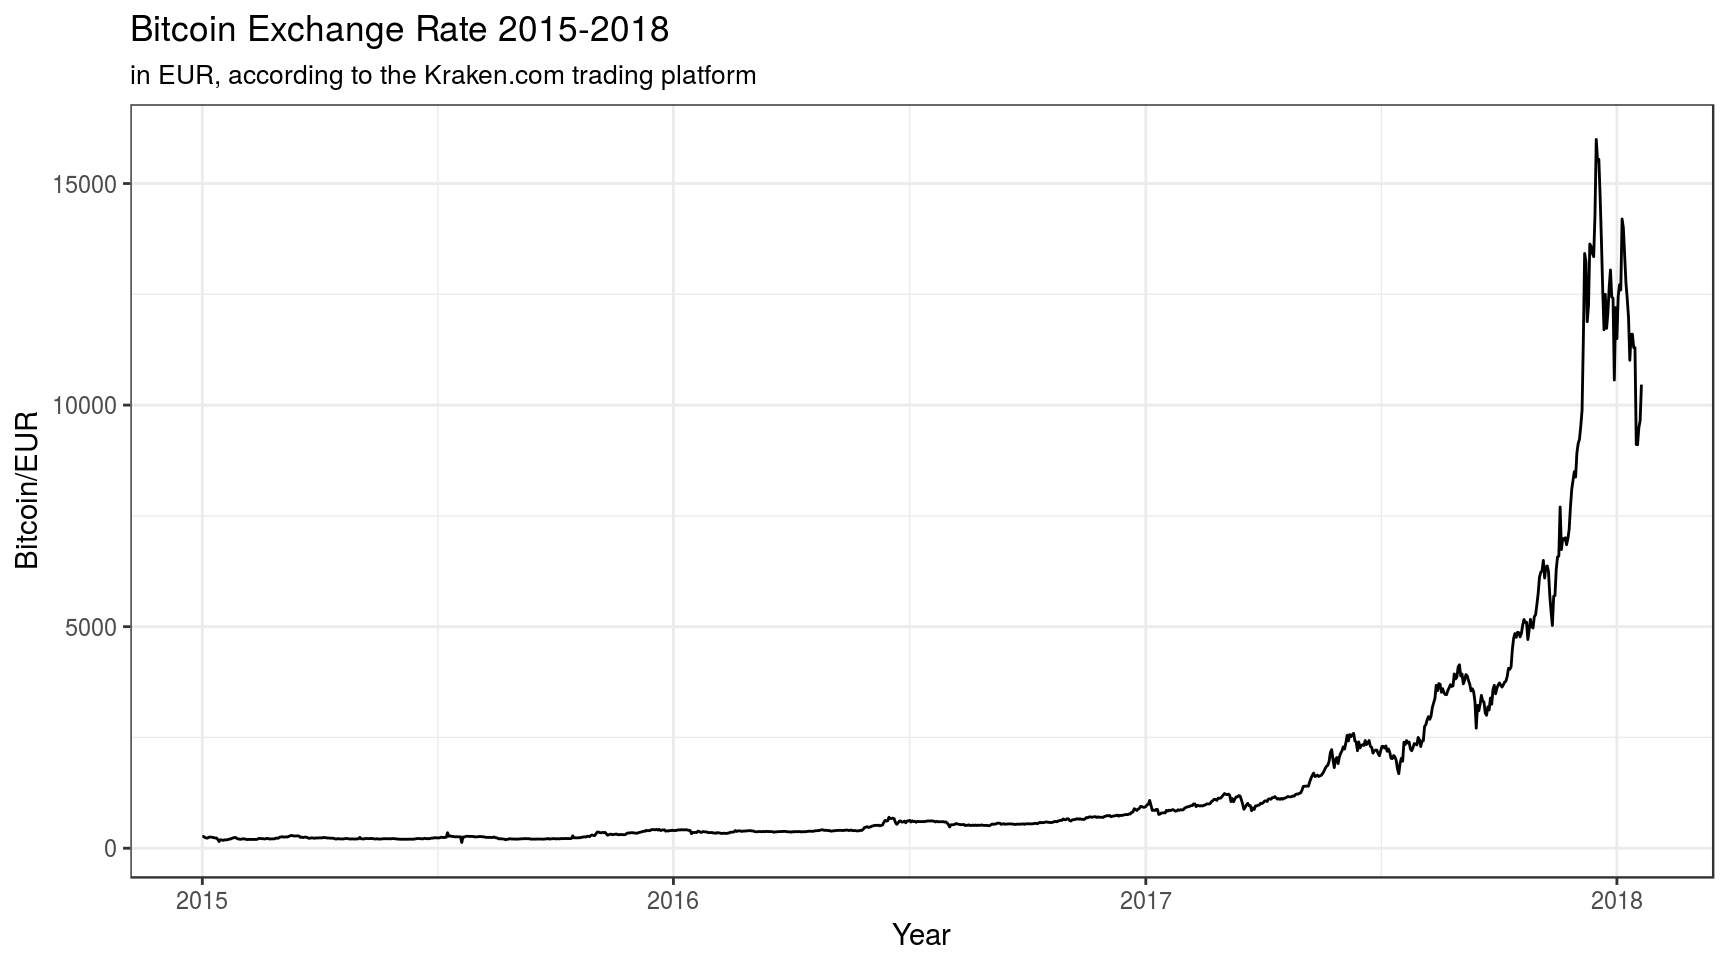
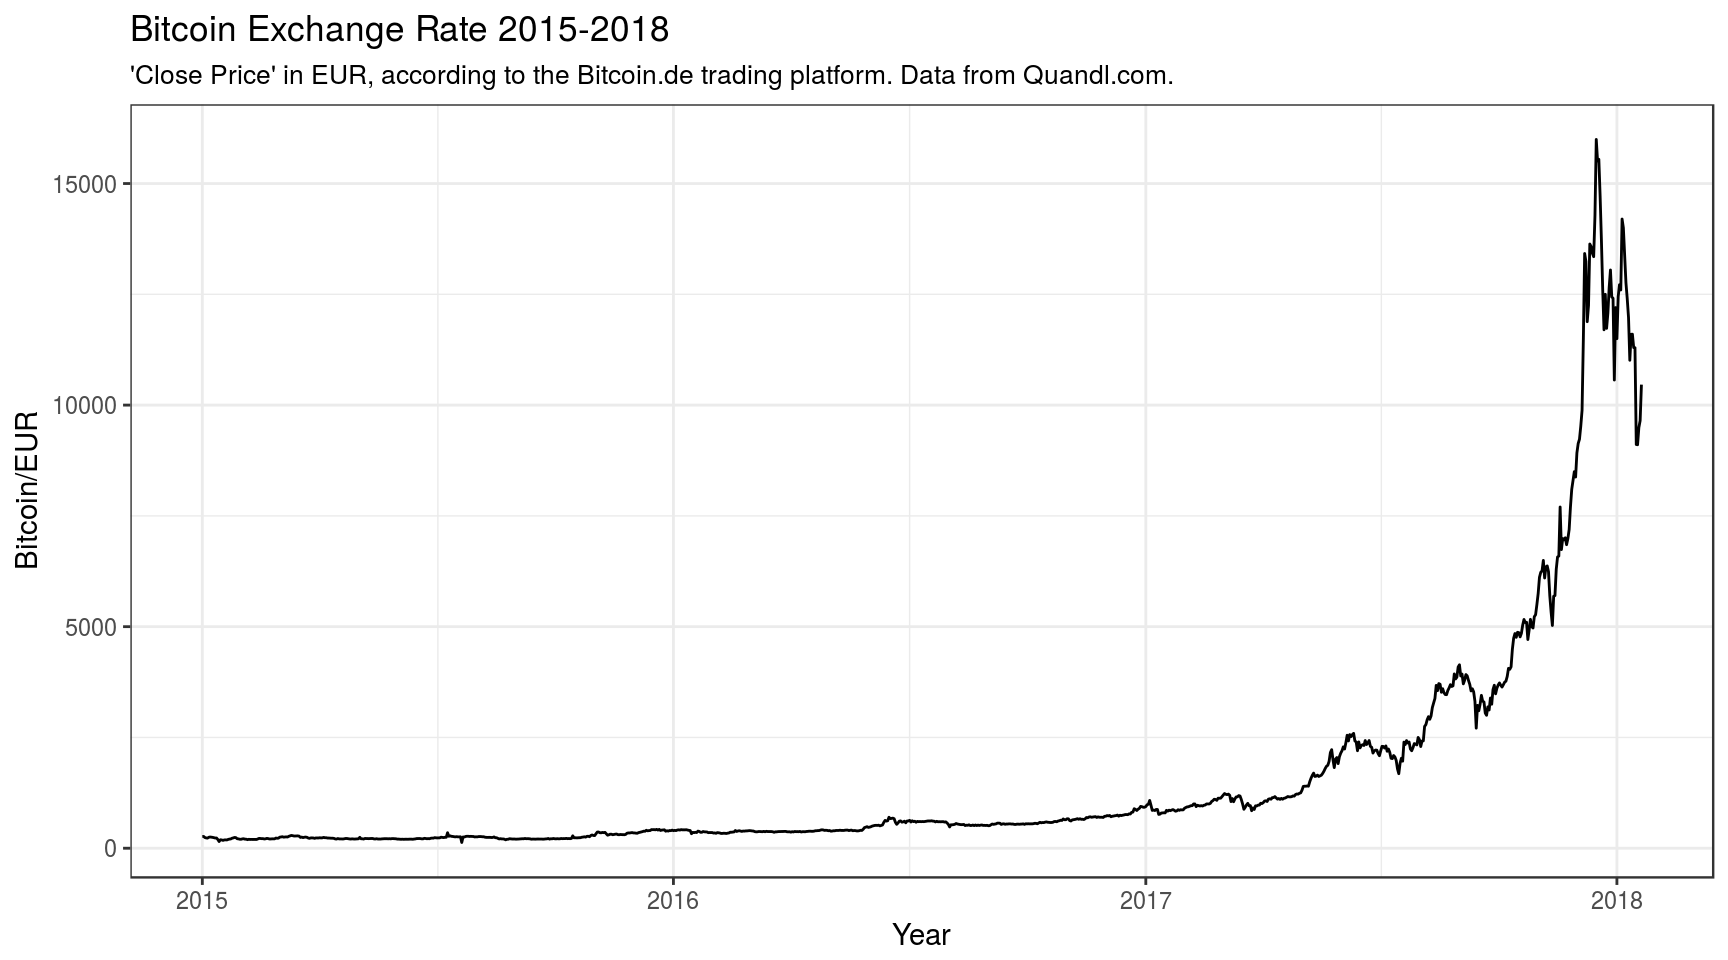
add BTC volatility plot

Changed region(s): [[0.0625, 0.0625, 0.6875, 0.0938]]

diff --git a/public/post/2018/01/bitcoin-interest/index.html b/public/post/2018/01/bitcoin-interest/index.html
@@ -125,7 +125,7 @@ ga('send', 'pageview');
 
   <article class="article">
     
-    <span class="article-duration">3 min read</span>
+    <span class="article-duration">4 min read</span>
     
 
     <h1 class="article-title">Global interest in Bitcoin over Time</h1>
@@ -139,7 +139,7 @@ ga('send', 'pageview');
 Bitcoin. Visualizing (1) Wikipedia Pageviews, (2) Google Searches and (3) Exchange Rates from 2015 to early 2018. 
 Simple timeseries plots (created from Web-API data) show that these three are strongly correlated.
 </div>
-<p>In this post I’ll analyse global interest in Bitcoin and Ethereum over time, according to accesses to Wikipedia articles and as Google Searches. At this time, no API keys and authentication are necessary.</p>
+<p>In this post I’ll analyse global interest in Bitcoin and Ethereum over time, according to accesses to Wikipedia articles and as Google Searches.</p>
 <p>The end of the year 2017 saw the “Bitcoin Bubble”, a period of one month where 1 Bitcoin was traded for up to $20000 on most exchanges. I am not invested in Bitcoin, and never was substantially, but cryptocurrencies and the blockchain technology still interest me.</p>
 <div id="preprocessing" class="section level3">
 <h3>Preprocessing</h3>
@@ -148,6 +148,7 @@ Simple timeseries plots (created from Web-API data) show that these three are st
 <li>Define necessary R packages</li>
 <li>Fetching the data</li>
 </ul>
+<p>At this time, no user registration process is required to get to the data. No API keys and authentication steps are necessary to call the Web-APIs mentioned below.</p>
 <div id="load-r-packages" class="section level4">
 <h4>Load R packages</h4>
 <pre class="r"><code>library(pageviews) # access Wikipedia
@@ -159,8 +160,8 @@ theme_set(theme_bw()) # ggplot default</code></pre>
 </div>
 <div id="define-a-wrapper-function-to-access-a-wikipedia-api" class="section level4">
 <h4>Define a wrapper function to access a Wikipedia API</h4>
-<p>The function contains quite a few of hardwired parameters. The <a href="https://github.com/ironholds/pageviews"><code>pageviews</code></a> package fetches the data. The function could bemade a lot more flexible by adding more parameters but that is also not necessary for this blogpost.</p>
-<p>The search function only works for terms that for which an article in both wikipedias exists.</p>
+<p>The function contains quite a few of hardwired parameters. The <a href="https://github.com/ironholds/pageviews"><code>pageviews</code></a> package fetches the data. The function could be made a lot more flexible by adding more arguments, but that is not necessary for this blogpost.</p>
+<p>The search function only works for terms for which an article exists <em>with the same title</em> in both the German and the English Wikipedia.</p>
 <p>Luckily “Bitcoin” is such a term.</p>
 <pre class="r"><code># Get the pageviews for &quot;Search term&quot;
 # pageview data is available since 2015
@@ -203,14 +204,27 @@ wikipedia_de_vs_en &lt;- function(term = &quot;Bitcoin&quot;) {
       subtitle = &quot;Human Users only&quot;
     ) 
 }</code></pre>
-<p>Get some data for Bitcoin</p>
+</div>
+</div>
+<div id="data-visualization" class="section level3">
+<h3>Data Visualization</h3>
+<p>Get some data for the Wikipedia article on Bitcoin:</p>
 <p><img src="/post/2018-01-20-interest-in-bitcoin-over-time_files/figure-html/btc-1.png" width="864" /></p>
-<p>Get some data for Ethereum, another popular cryptocurrency (at this time).</p>
+<p>Get some data for the article on Ethereum, another popular cryptocurrency (at this time).</p>
 <p><img src="/post/2018-01-20-interest-in-bitcoin-over-time_files/figure-html/eth-1.png" width="864" /></p>
-<p>There is another, alternative data source: Google Trends API, here accessed with functions from the <a href="https://github.com/PMassicotte/gtrendsR">gtrendsR</a> package. The API provides aggregated and rescaled data on how many people have performed Google searches for this term.</p>
+<p>These plots show a lot of things.</p>
+<ul>
+<li>Unsurprisingly, the interest (measured in pageviews) in the English version of the Wikipedia articles is consistently higher than interest in the German version. About 5 times as high.</li>
+<li>Accesses to the Wikipedia articles peaked quite a few times even before the 2017 craze started. (I haven’t looked it up what these events were. Ransomware spreads, perhaps?).</li>
+<li>Interest in Ethereum seems to be disproportionally high in Germany: “English pageviews”&quot; were “only” 3 times as high as German pageviews (usually it’s 5 times as high).<br />
+</li>
+<li>Strong peaks in Ethereum-article pageviews often occured independently from Bitcoin-Article pageviews, for both language articles.</li>
+<li>(TBC)</li>
+</ul>
+<p>There is another, alternative data source: Google Trends API, here accessed with functions from the <a href="https://github.com/PMassicotte/gtrendsR">gtrendsR</a> package. The API provides aggregated and rescaled data on how many people have performed Google searches for any term.</p>
 <p>Show a plot for comparison:</p>
 <pre class="r"><code>bitcoin_trends$interest_over_time %&gt;%
-  filter(date &gt; as.Date(&quot;2015-01-01&quot;)) %&gt;%
+  filter(date &gt;= as.Date(&quot;2015-01-01&quot;)) %&gt;%
   ggplot(aes(date, hits)) +
   geom_line() +
   theme(legend.position = &quot;none&quot;) +
@@ -220,16 +234,23 @@ wikipedia_de_vs_en &lt;- function(term = &quot;Bitcoin&quot;) {
     subtitle = &quot;(Google internal counters)&quot;
   )</code></pre>
 <p><img src="/post/2018-01-20-interest-in-bitcoin-over-time_files/figure-html/gogl-1.png" width="864" /></p>
-</div>
+<p>In order to make the Google-Trends-API plot comparable to the other plots above, I have restricted the data to the interval from 2015 to 2018. Thus I have left out a small but notable spike in the gloabl interest in bitcoin that happended in 2014.</p>
 <div id="another-obligatory-comparison" class="section level4">
 <h4>Another obligatory comparison</h4>
-<p>Last but not least: the exchange rate for Bitcoin, here given in Euro.</p>
+<p>Last but not least: the exchange rate for Bitcoin, here given in Euro. Data are from <a href="https://www.bitcoin.de">Bitcoin.de</a>, aggregated by <a href="https://docs.quandl.com/docs/time-series">Quandl</a>.</p>
 <pre class="r"><code>btc &lt;- Quandl(code = &quot;BCHARTS/BTCDEEUR&quot;, type = &quot;xts&quot;)
 autoplot(btc$Close[&quot;2015-01-01/&quot;]) +
         ylab(&quot;Bitcoin/EUR&quot;) + xlab(&quot;Year&quot;) +
         ggtitle(&quot;Bitcoin Exchange Rate 2015-2018&quot;,
-                subtitle=&quot;in EUR, according to the Kraken.com trading platform&quot;)</code></pre>
+                subtitle=&quot;&#39;Close Price&#39; in EUR, according to the Bitcoin.de trading platform. Data from Quandl.com.&quot;)</code></pre>
 <p><img src="/post/2018-01-20-interest-in-bitcoin-over-time_files/figure-html/quandl-1.png" width="864" /></p>
+<p>What many people talk about is the ‘volatility’ of Bitcoin. Rarely have I seen someone visualizing this, so here is another plot showing the daily change in the price fo 1 bitcoin, in Euro:</p>
+<pre class="r"><code>autoplot(diff(btc$Close[&quot;2015-01-01/&quot;])) +
+        ylab(&quot;Daily Price Change, in EUR/day &quot;) + xlab(&quot;Year&quot;) +
+        ggtitle(&quot;Volatility of Bitcoin &#39;Close Price&#39; 2015-2018&quot;,
+                subtitle=&quot;in EUR, according to the Bitcoin.de trading platform. Data from Quandl.com.&quot;)</code></pre>
+<p><img src="/post/2018-01-20-interest-in-bitcoin-over-time_files/figure-html/btcdiff-1.png" width="864" /></p>
+<p>I’ve never seen any financial time series like that.</p>
 </div>
 </div>
 

diff --git a/content/post/2018-01-20-interest-in-bitcoin-over-time.html b/content/post/2018-01-20-interest-in-bitcoin-over-time.html
@@ -18,7 +18,7 @@ output:
 Bitcoin. Visualizing (1) Wikipedia Pageviews, (2) Google Searches and (3) Exchange Rates from 2015 to early 2018. 
 Simple timeseries plots (created from Web-API data) show that these three are strongly correlated.
 </div>
-<p>In this post I’ll analyse global interest in Bitcoin and Ethereum over time, according to accesses to Wikipedia articles and as Google Searches. At this time, no API keys and authentication are necessary.</p>
+<p>In this post I’ll analyse global interest in Bitcoin and Ethereum over time, according to accesses to Wikipedia articles and as Google Searches.</p>
 <p>The end of the year 2017 saw the “Bitcoin Bubble”, a period of one month where 1 Bitcoin was traded for up to $20000 on most exchanges. I am not invested in Bitcoin, and never was substantially, but cryptocurrencies and the blockchain technology still interest me.</p>
 <div id="preprocessing" class="section level3">
 <h3>Preprocessing</h3>
@@ -27,6 +27,7 @@ Simple timeseries plots (created from Web-API data) show that these three are st
 <li>Define necessary R packages</li>
 <li>Fetching the data</li>
 </ul>
+<p>At this time, no user registration process is required to get to the data. No API keys and authentication steps are necessary to call the Web-APIs mentioned below.</p>
 <div id="load-r-packages" class="section level4">
 <h4>Load R packages</h4>
 <pre class="r"><code>library(pageviews) # access Wikipedia
@@ -38,8 +39,8 @@ theme_set(theme_bw()) # ggplot default</code></pre>
 </div>
 <div id="define-a-wrapper-function-to-access-a-wikipedia-api" class="section level4">
 <h4>Define a wrapper function to access a Wikipedia API</h4>
-<p>The function contains quite a few of hardwired parameters. The <a href="https://github.com/ironholds/pageviews"><code>pageviews</code></a> package fetches the data. The function could bemade a lot more flexible by adding more parameters but that is also not necessary for this blogpost.</p>
-<p>The search function only works for terms that for which an article in both wikipedias exists.</p>
+<p>The function contains quite a few of hardwired parameters. The <a href="https://github.com/ironholds/pageviews"><code>pageviews</code></a> package fetches the data. The function could be made a lot more flexible by adding more arguments, but that is not necessary for this blogpost.</p>
+<p>The search function only works for terms for which an article exists <em>with the same title</em> in both the German and the English Wikipedia.</p>
 <p>Luckily “Bitcoin” is such a term.</p>
 <pre class="r"><code># Get the pageviews for &quot;Search term&quot;
 # pageview data is available since 2015
@@ -82,14 +83,27 @@ wikipedia_de_vs_en &lt;- function(term = &quot;Bitcoin&quot;) {
       subtitle = &quot;Human Users only&quot;
     ) 
 }</code></pre>
-<p>Get some data for Bitcoin</p>
+</div>
+</div>
+<div id="data-visualization" class="section level3">
+<h3>Data Visualization</h3>
+<p>Get some data for the Wikipedia article on Bitcoin:</p>
 <p><img src="/post/2018-01-20-interest-in-bitcoin-over-time_files/figure-html/btc-1.png" width="864" /></p>
-<p>Get some data for Ethereum, another popular cryptocurrency (at this time).</p>
+<p>Get some data for the article on Ethereum, another popular cryptocurrency (at this time).</p>
 <p><img src="/post/2018-01-20-interest-in-bitcoin-over-time_files/figure-html/eth-1.png" width="864" /></p>
-<p>There is another, alternative data source: Google Trends API, here accessed with functions from the <a href="https://github.com/PMassicotte/gtrendsR">gtrendsR</a> package. The API provides aggregated and rescaled data on how many people have performed Google searches for this term.</p>
+<p>These plots show a lot of things.</p>
+<ul>
+<li>Unsurprisingly, the interest (measured in pageviews) in the English version of the Wikipedia articles is consistently higher than interest in the German version. About 5 times as high.</li>
+<li>Accesses to the Wikipedia articles peaked quite a few times even before the 2017 craze started. (I haven’t looked it up what these events were. Ransomware spreads, perhaps?).</li>
+<li>Interest in Ethereum seems to be disproportionally high in Germany: “English pageviews”&quot; were “only” 3 times as high as German pageviews (usually it’s 5 times as high).<br />
+</li>
+<li>Strong peaks in Ethereum-article pageviews often occured independently from Bitcoin-Article pageviews, for both language articles.</li>
+<li>(TBC)</li>
+</ul>
+<p>There is another, alternative data source: Google Trends API, here accessed with functions from the <a href="https://github.com/PMassicotte/gtrendsR">gtrendsR</a> package. The API provides aggregated and rescaled data on how many people have performed Google searches for any term.</p>
 <p>Show a plot for comparison:</p>
 <pre class="r"><code>bitcoin_trends$interest_over_time %&gt;%
-  filter(date &gt; as.Date(&quot;2015-01-01&quot;)) %&gt;%
+  filter(date &gt;= as.Date(&quot;2015-01-01&quot;)) %&gt;%
   ggplot(aes(date, hits)) +
   geom_line() +
   theme(legend.position = &quot;none&quot;) +
@@ -99,15 +113,22 @@ wikipedia_de_vs_en &lt;- function(term = &quot;Bitcoin&quot;) {
     subtitle = &quot;(Google internal counters)&quot;
   )</code></pre>
 <p><img src="/post/2018-01-20-interest-in-bitcoin-over-time_files/figure-html/gogl-1.png" width="864" /></p>
-</div>
+<p>In order to make the Google-Trends-API plot comparable to the other plots above, I have restricted the data to the interval from 2015 to 2018. Thus I have left out a small but notable spike in the gloabl interest in bitcoin that happended in 2014.</p>
 <div id="another-obligatory-comparison" class="section level4">
 <h4>Another obligatory comparison</h4>
-<p>Last but not least: the exchange rate for Bitcoin, here given in Euro.</p>
+<p>Last but not least: the exchange rate for Bitcoin, here given in Euro. Data are from <a href="https://www.bitcoin.de">Bitcoin.de</a>, aggregated by <a href="https://docs.quandl.com/docs/time-series">Quandl</a>.</p>
 <pre class="r"><code>btc &lt;- Quandl(code = &quot;BCHARTS/BTCDEEUR&quot;, type = &quot;xts&quot;)
 autoplot(btc$Close[&quot;2015-01-01/&quot;]) +
         ylab(&quot;Bitcoin/EUR&quot;) + xlab(&quot;Year&quot;) +
         ggtitle(&quot;Bitcoin Exchange Rate 2015-2018&quot;,
-                subtitle=&quot;in EUR, according to the Kraken.com trading platform&quot;)</code></pre>
+                subtitle=&quot;&#39;Close Price&#39; in EUR, according to the Bitcoin.de trading platform. Data from Quandl.com.&quot;)</code></pre>
 <p><img src="/post/2018-01-20-interest-in-bitcoin-over-time_files/figure-html/quandl-1.png" width="864" /></p>
+<p>What many people talk about is the ‘volatility’ of Bitcoin. Rarely have I seen someone visualizing this, so here is another plot showing the daily change in the price fo 1 bitcoin, in Euro:</p>
+<pre class="r"><code>autoplot(diff(btc$Close[&quot;2015-01-01/&quot;])) +
+        ylab(&quot;Daily Price Change, in EUR/day &quot;) + xlab(&quot;Year&quot;) +
+        ggtitle(&quot;Volatility of Bitcoin &#39;Close Price&#39; 2015-2018&quot;,
+                subtitle=&quot;in EUR, according to the Bitcoin.de trading platform. Data from Quandl.com.&quot;)</code></pre>
+<p><img src="/post/2018-01-20-interest-in-bitcoin-over-time_files/figure-html/btcdiff-1.png" width="864" /></p>
+<p>I’ve never seen any financial time series like that.</p>
 </div>
 </div>

diff --git a/public/post/index.html b/public/post/index.html
@@ -168,7 +168,7 @@ ga('send', 'pageview');
                                     <a href="/post/2018/01/bitcoin-interest/"><i class="fa fa-calendar-o"></i>2018-01-20</a>
                                 </span>
                                 
-                                <span class="article-duration">3 min read</span>
+                                <span class="article-duration">4 min read</span>
                                 
                             </div>
                         </div>
